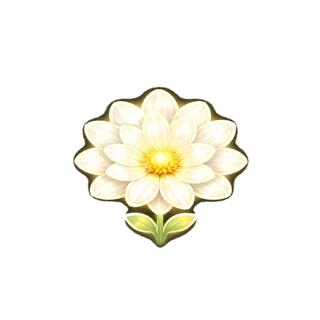
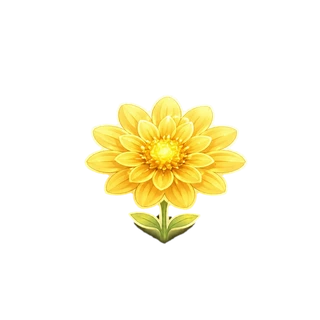
Remove white dahlia flower (dark ring artifact), shift f7-f9 down
The white dahlia (f6) left a visible dark oval border on the green
grass background due to its soft glow gradient. Removed it and shifted
f7→f6, f8→f7, f9→f8. Reduced flowerImages count to 9, bumped cache to v7.

Claude-Session: https://claude.ai/code/session_01S2gekPUJooPMvPKjFjtUcr

Changed region(s): [[0.2188, 0.25, 0.7812, 0.7812]]

diff --git a/src/screens/Vredepad.jsx b/src/screens/Vredepad.jsx
@@ -13,10 +13,10 @@ const FREE_REWARD_BOOKS = [
 
 const PROMISE_PLANTS = ['🌱', '🌻', '🌾', '🌿', '🌸', '🍇']
 
-// 10 glowing illustrated blooms (f0–f9.webp, transparent bg)
-const flowerImages = Array.from({ length: 10 }, (_, i) => {
+// 9 glowing illustrated blooms (f0–f8.webp, transparent bg)
+const flowerImages = Array.from({ length: 9 }, (_, i) => {
   const img = new Image()
-  img.src = `/flowers/f${i}.webp?v=6`
+  img.src = `/flowers/f${i}.webp?v=7`
   return img
 })
 
